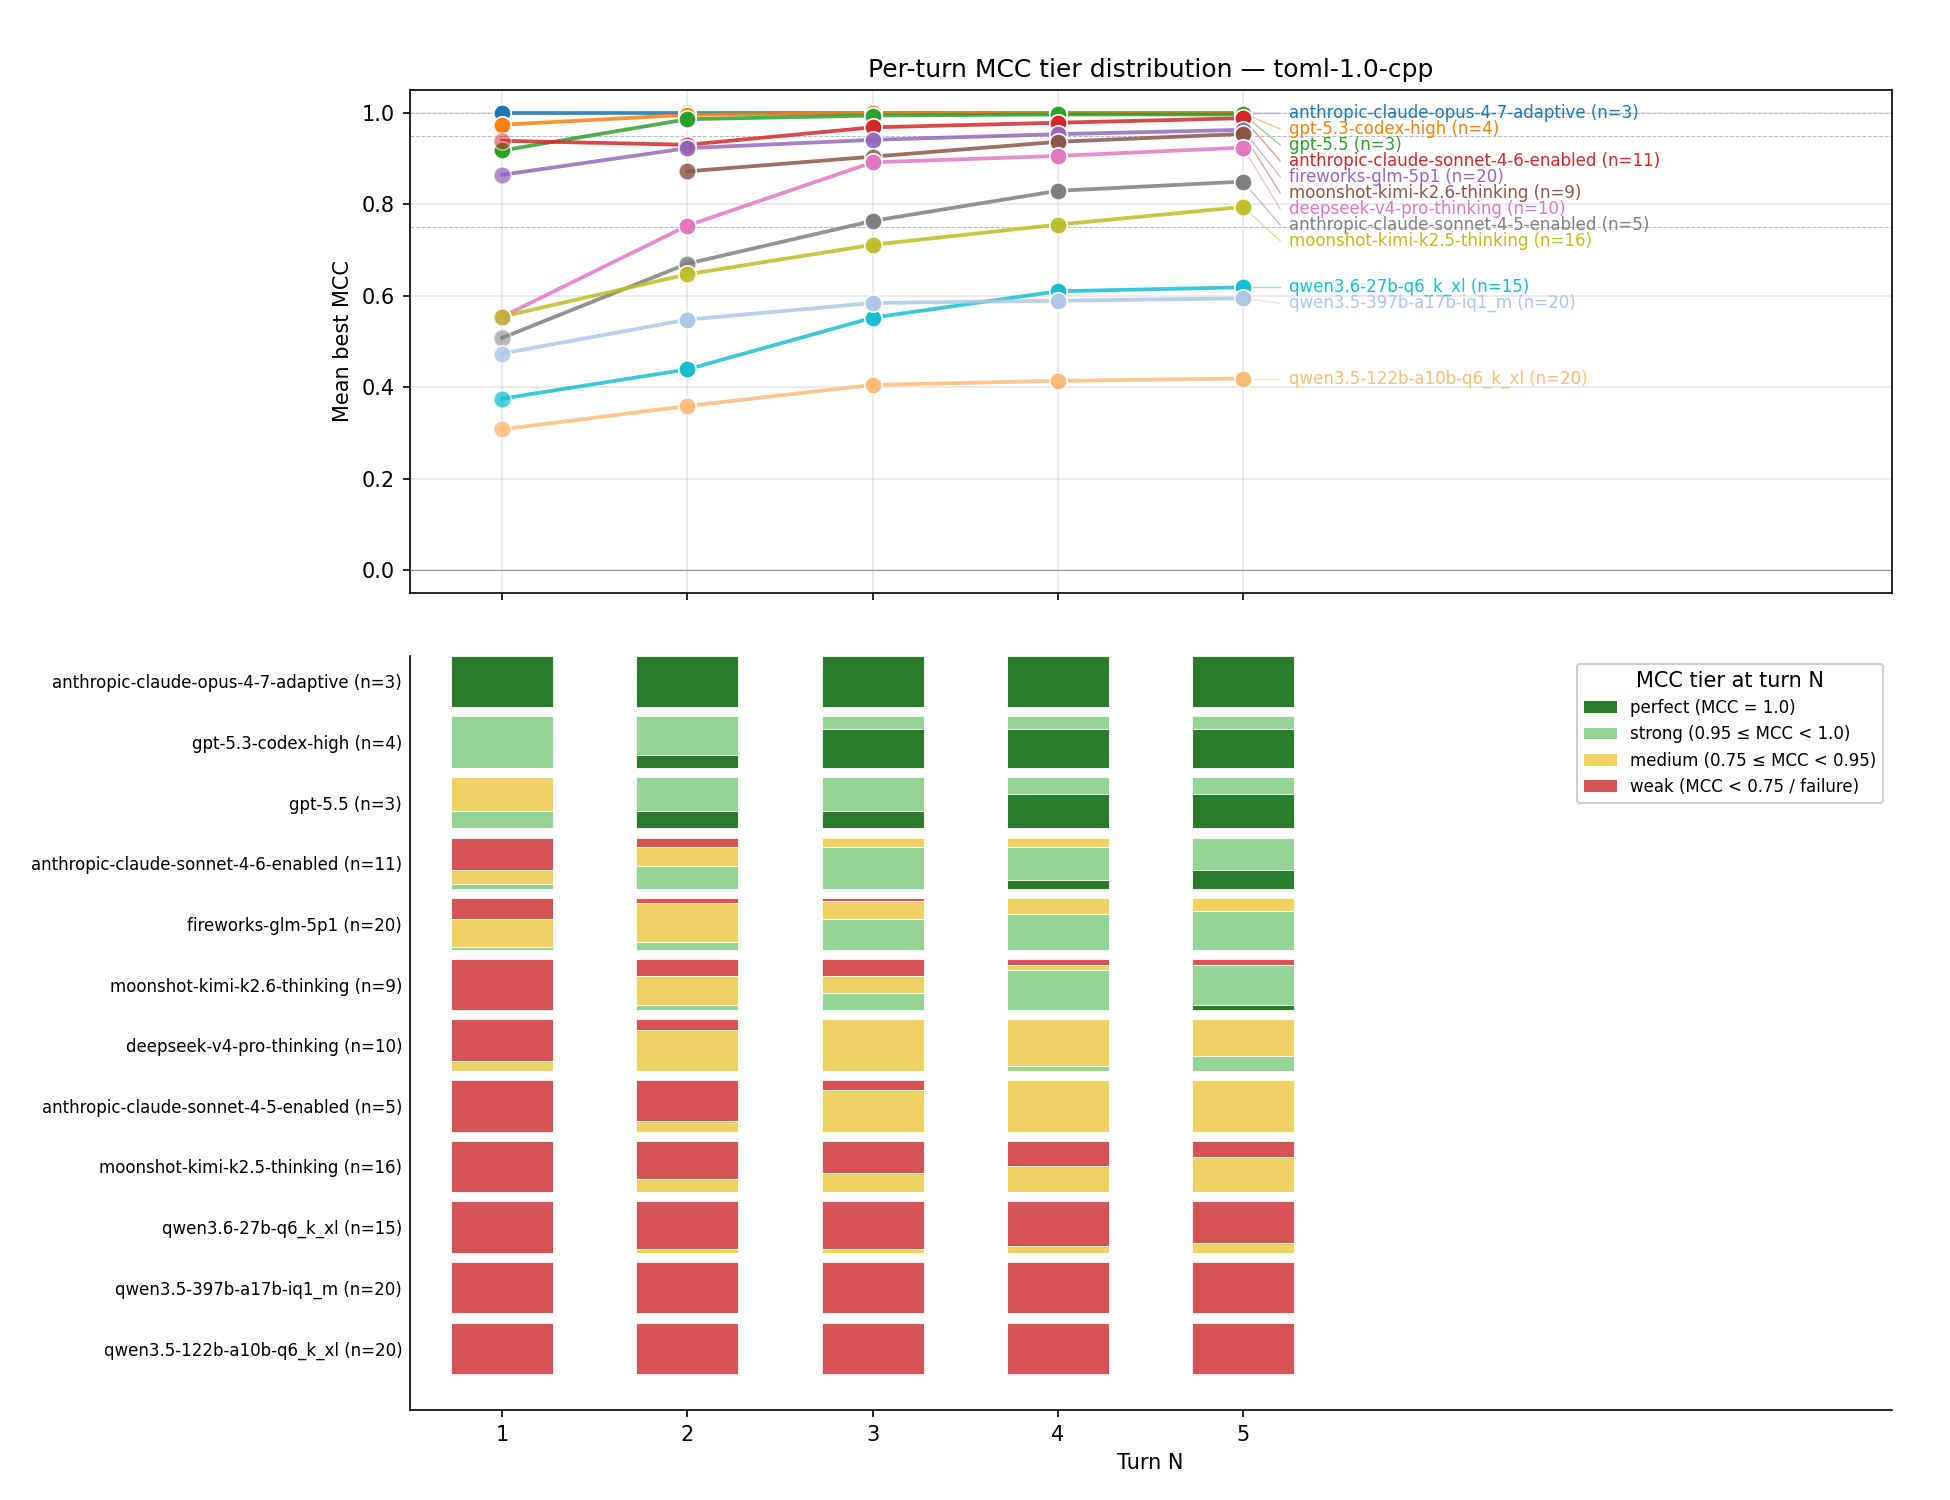
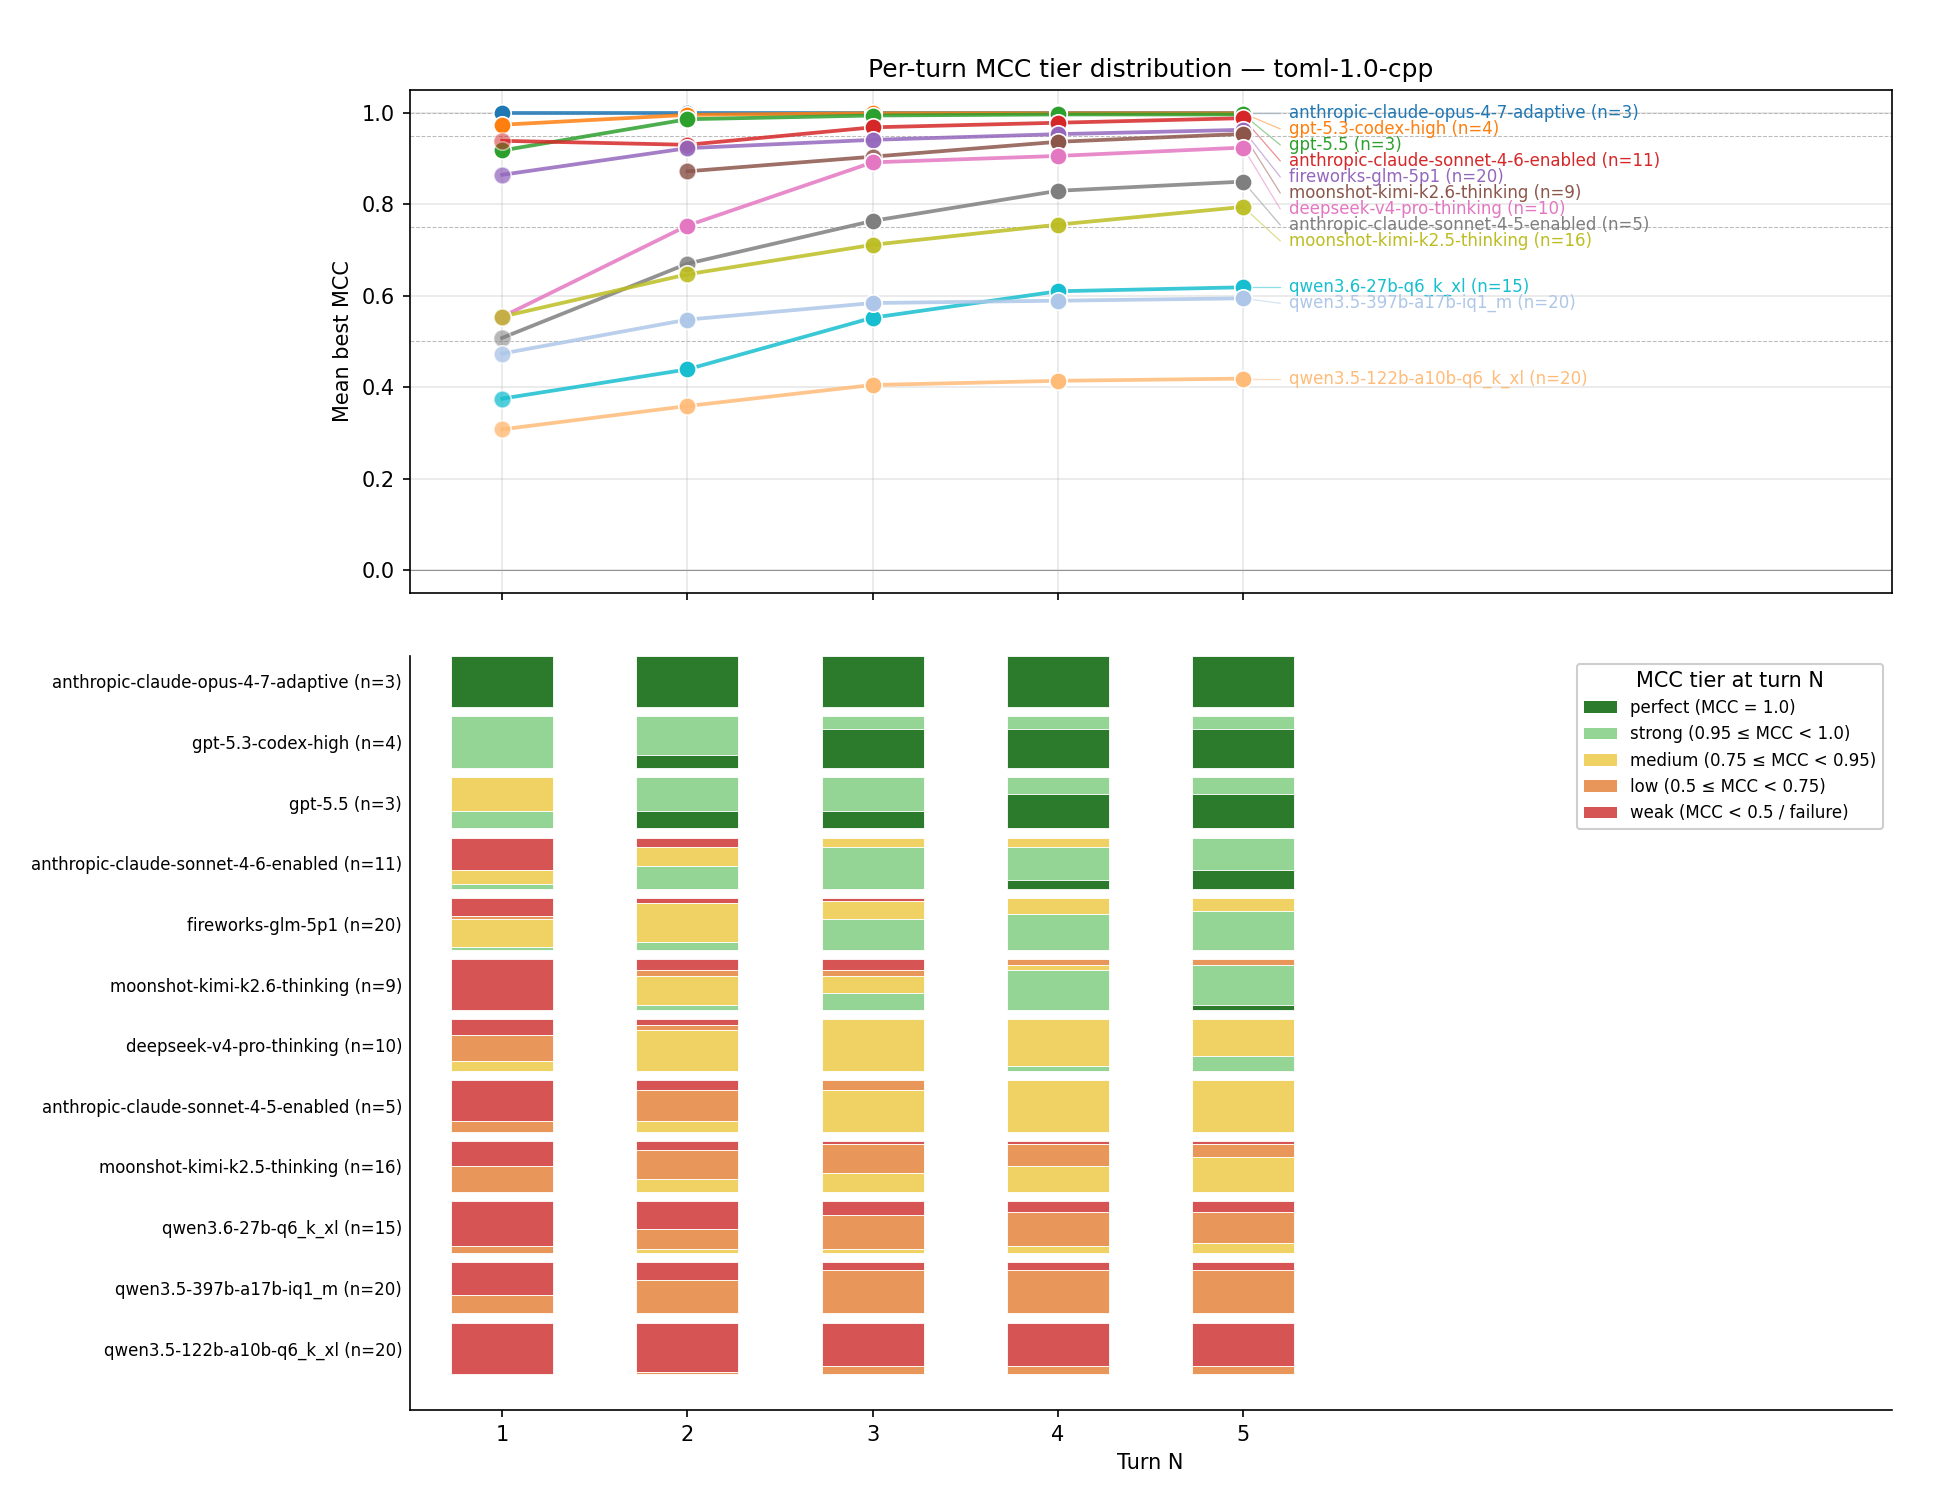
validation-bench: plot_tiers — split weak tier into low (0.5–0.75) and weak (<0.5)
Previously the weak tier (<0.75) lumped real but small progression in
smaller / weaker models with genuine no-signal failures. The bottom rows
of the chart all read as uniform red, which hid stories like "k2.5-thinking
goes from red→orange→yellow over turns" or "qwen3.5-397b is climbing into
the low tier from turn 2".

New 5-tier split:
- perfect : MCC == 1.0
- strong  : 0.95 ≤ MCC < 1.0
- medium  : 0.75 ≤ MCC < 0.95
- low     : 0.5  ≤ MCC < 0.75   (NEW — orange #e8965a)
- weak    : MCC < 0.5 / failure

Failures (NaN cumulative best, compile errors, no submission) still fold
into weak, since they're worse than the worst real signal we'd want to
distinguish. The 0.5 boundary is meaningful: MCC = 0.5 corresponds to a
classifier substantially better than random but with clear failure modes
on roughly a quarter of cases.

Reading on the same 12-slug toml-1.0-cpp cohort:
- Bottom-tier qwens previously looked identical (all-red); the split now
  shows q6_k_xl and 397b-iq1_m climbing into orange/yellow, while
  122b-a10b-q6 stays solid red across all 5 turns. The latter is the
  only genuinely "stuck" row.
- k2.5-thinking, sonnet-4-5-enabled also gain visible progression
  signature in the lower bands.
- Top-tier rows are unchanged (no values in [0.5, 0.75) so no orange).

Top-panel boundary lines updated to include the new 0.5 cutoff.

diff --git a/validation-bench/plot_tiers.py b/validation-bench/plot_tiers.py
@@ -8,7 +8,8 @@ best MCC:
     perfect : MCC == 1.0          (runner breaks on perfect, qualitatively different)
     strong  : 0.95 <= MCC < 1.0   (≥ 95% test pass equivalent)
     medium  : 0.75 <= MCC < 0.95  (decent classifier, clear room to improve)
-    weak    : MCC < 0.75          (poor signal — also catches infra failures and no submission)
+    low     : 0.5 <= MCC < 0.75   (below medium but visibly above random)
+    weak    : MCC < 0.5           (poor signal — also catches failures / no submission)
 
 Failures (compile error, no submission yet, attempt ran out of budget mid-way)
 collapse into the weak tier rather than being a separate visual category.
@@ -39,19 +40,22 @@ from matplotlib.patches import Patch
 TIER_PERFECT = "perfect"
 TIER_STRONG = "strong"
 TIER_MEDIUM = "medium"
+TIER_LOW = "low"
 TIER_WEAK = "weak"
-TIER_ORDER = [TIER_PERFECT, TIER_STRONG, TIER_MEDIUM, TIER_WEAK]
+TIER_ORDER = [TIER_PERFECT, TIER_STRONG, TIER_MEDIUM, TIER_LOW, TIER_WEAK]
 TIER_COLORS = {
     TIER_PERFECT: "#2c7a2c",  # dark green
     TIER_STRONG:  "#94d495",  # light green
     TIER_MEDIUM:  "#f0d264",  # yellow
+    TIER_LOW:     "#e8965a",  # orange
     TIER_WEAK:    "#d65454",  # red
 }
 TIER_LABELS = {
     TIER_PERFECT: "perfect (MCC = 1.0)",
     TIER_STRONG:  "strong (0.95 ≤ MCC < 1.0)",
     TIER_MEDIUM:  "medium (0.75 ≤ MCC < 0.95)",
-    TIER_WEAK:    "weak (MCC < 0.75 / failure)",
+    TIER_LOW:     "low (0.5 ≤ MCC < 0.75)",
+    TIER_WEAK:    "weak (MCC < 0.5 / failure)",
 }
 
 
@@ -66,6 +70,8 @@ def tier_of(mcc: float) -> str:
         return TIER_STRONG
     if mcc >= 0.75:
         return TIER_MEDIUM
+    if mcc >= 0.5:
+        return TIER_LOW
     return TIER_WEAK
 
 
@@ -174,7 +180,7 @@ def plot_tiers(progression: dict[str, np.ndarray], task: str, slugs: list[str],
     ax_top.set_title(f"Per-turn MCC tier distribution — {task}")
     ax_top.axhline(0, color="#888", linewidth=0.5, zorder=1)
     # Faint horizontal bands at the tier boundaries to anchor the eye.
-    for boundary in (0.75, 0.95, 1.0):
+    for boundary in (0.5, 0.75, 0.95, 1.0):
         ax_top.axhline(boundary, color="#bbb", linewidth=0.5,
                        linestyle="--", zorder=1)
     ax_top.grid(alpha=0.3, zorder=0)
